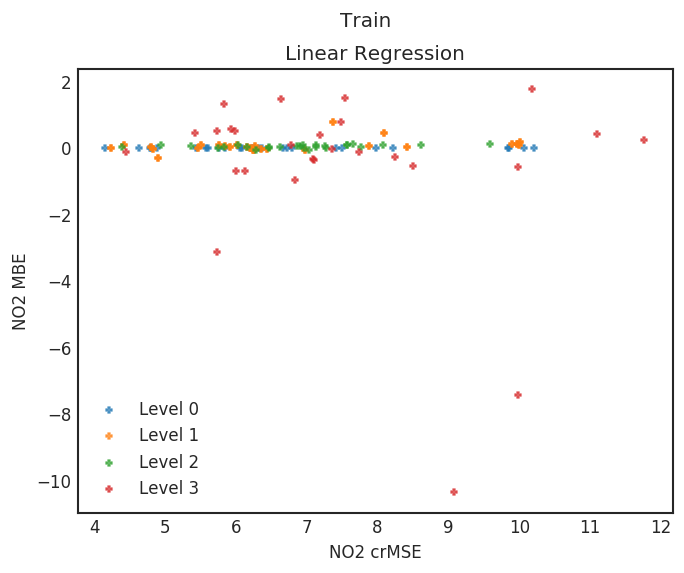
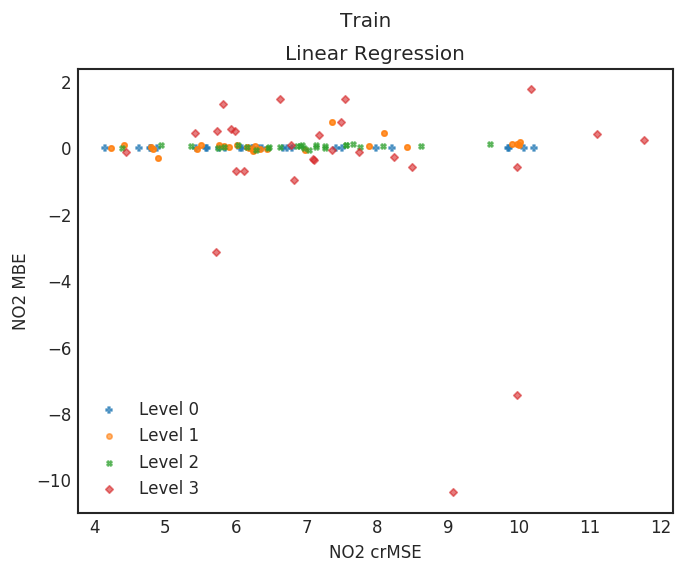
updated some images

diff --git a/scripts/generate_targets.py b/scripts/generate_targets.py
@@ -94,7 +94,7 @@ if __name__ == "__main__":
                 fig, ax = plt.subplots()
                 for j, level in enumerate([0, 1, 2, 3]):
                     data = model_df[(model_df['Level'] == ("Level %u" % level)) & (model_df['Model'] == name) & (model_df['Evaluation'] == result_name)]
-                    ax.scatter(data["%s crMSE" % gas], data["%s MBE" % gas], label="Level %u" % level, alpha=0.6, s=10, marker=markers[i])
+                    ax.scatter(data["%s crMSE" % gas], data["%s MBE" % gas], label="Level %u" % level, alpha=0.6, s=10, marker=markers[j])
                     # ax2[i].scatter(data["%s crMSE" % gas] / data[("epa-%s" % gas).lower()].mean(), data["%s MBE" % gas] / data[("epa-%s" % gas).lower()].mean())
                     fig.suptitle(result_name)
                     ax.set_title(name)
